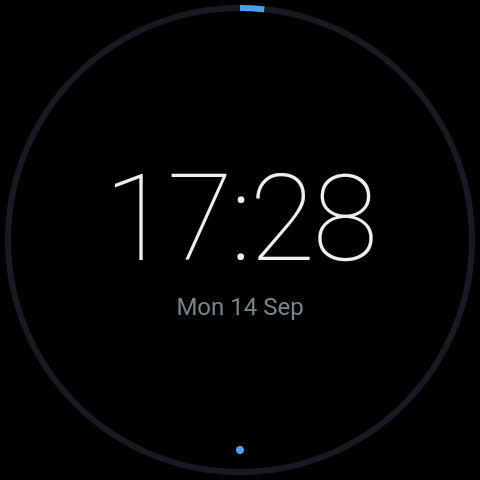
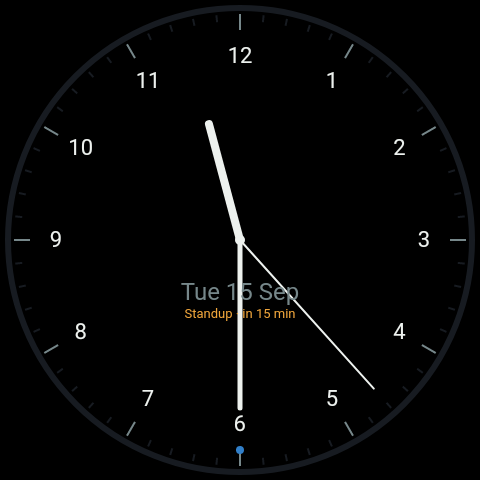
docs(readme): refresh face screenshots, add settings page
The old clock screenshot predates the merged analogue+calendar face;
the new one shows the next event combined in. Adds a settings page
screenshot showing the new "Show next event" toggle.

Fixes #67

diff --git a/README.md b/README.md
@@ -15,8 +15,8 @@ throughout, captured on the emulator against a real Spotify account.
 <table>
 <tr>
 <td align="center" width="33%">
-<img src="docs/screenshots/clock.png" width="220" alt="Clock face"><br>
-Clock
+<img src="docs/screenshots/clock.png" width="220" alt="Clock face, analogue, with the next calendar event"><br>
+Clock, analogue, with the next event combined in
 </td>
 <td align="center" width="33%">
 <img src="docs/screenshots/spotify.png" width="220" alt="Spotify face"><br>
@@ -39,6 +39,15 @@ Status, the debug face
 <td width="33%"></td>
 </tr>
 </table>
+
+The clock face is analogue or digital (`clock_style`), and can show the next
+calendar event alongside the time or not (`hide_next_event`) - the two
+settings are independent, so all four combinations are available. Both, plus
+the per-face show/hide toggles, live on the settings page (tray: Options):
+
+<p align="center">
+<img src="docs/screenshots/settings.png" width="260" alt="Settings page">
+</p>
 
 ## Components
 
